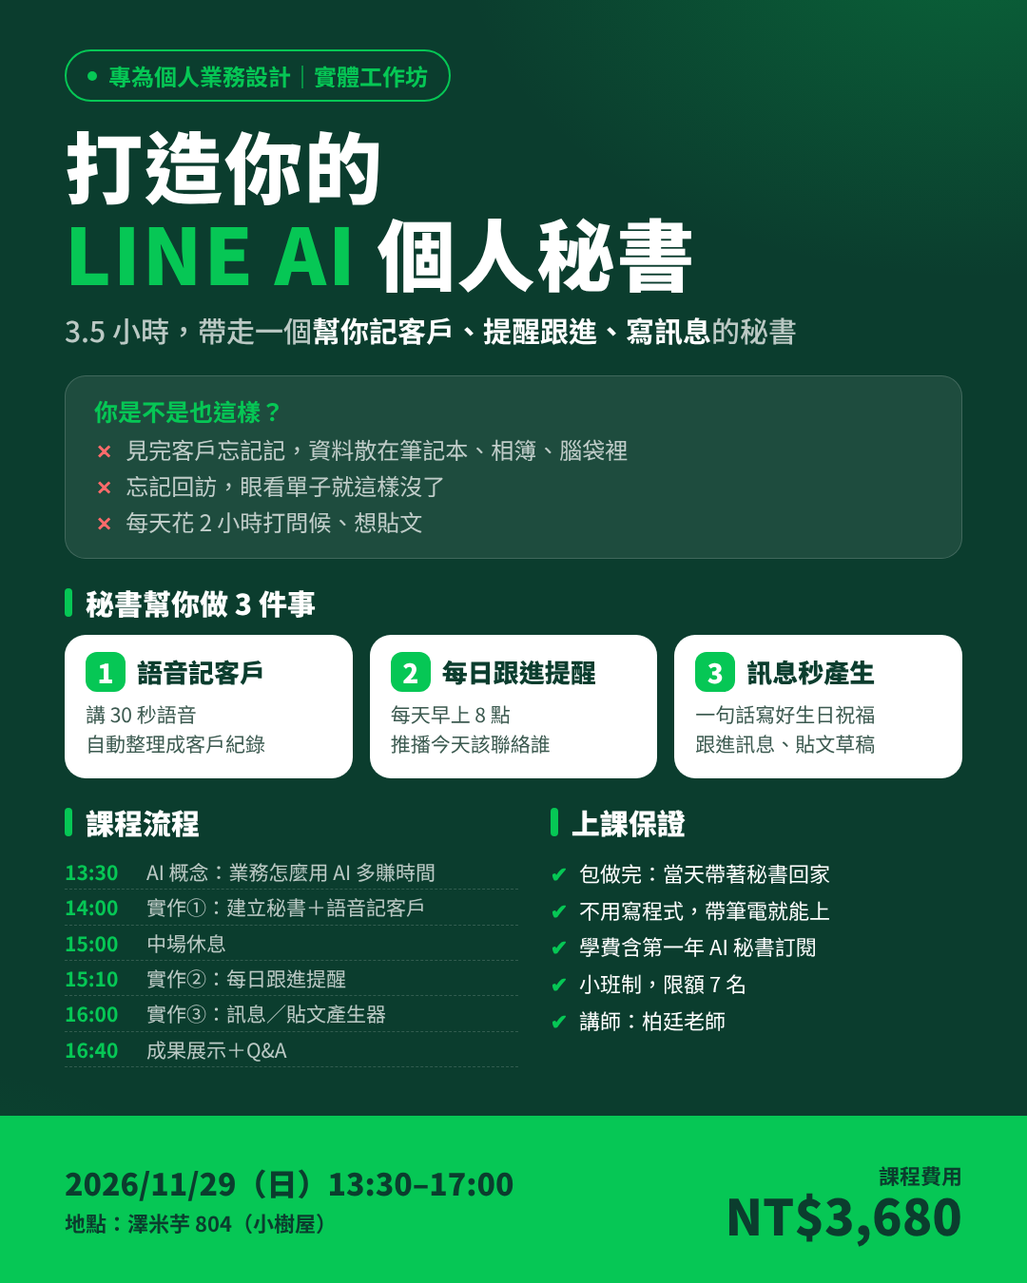
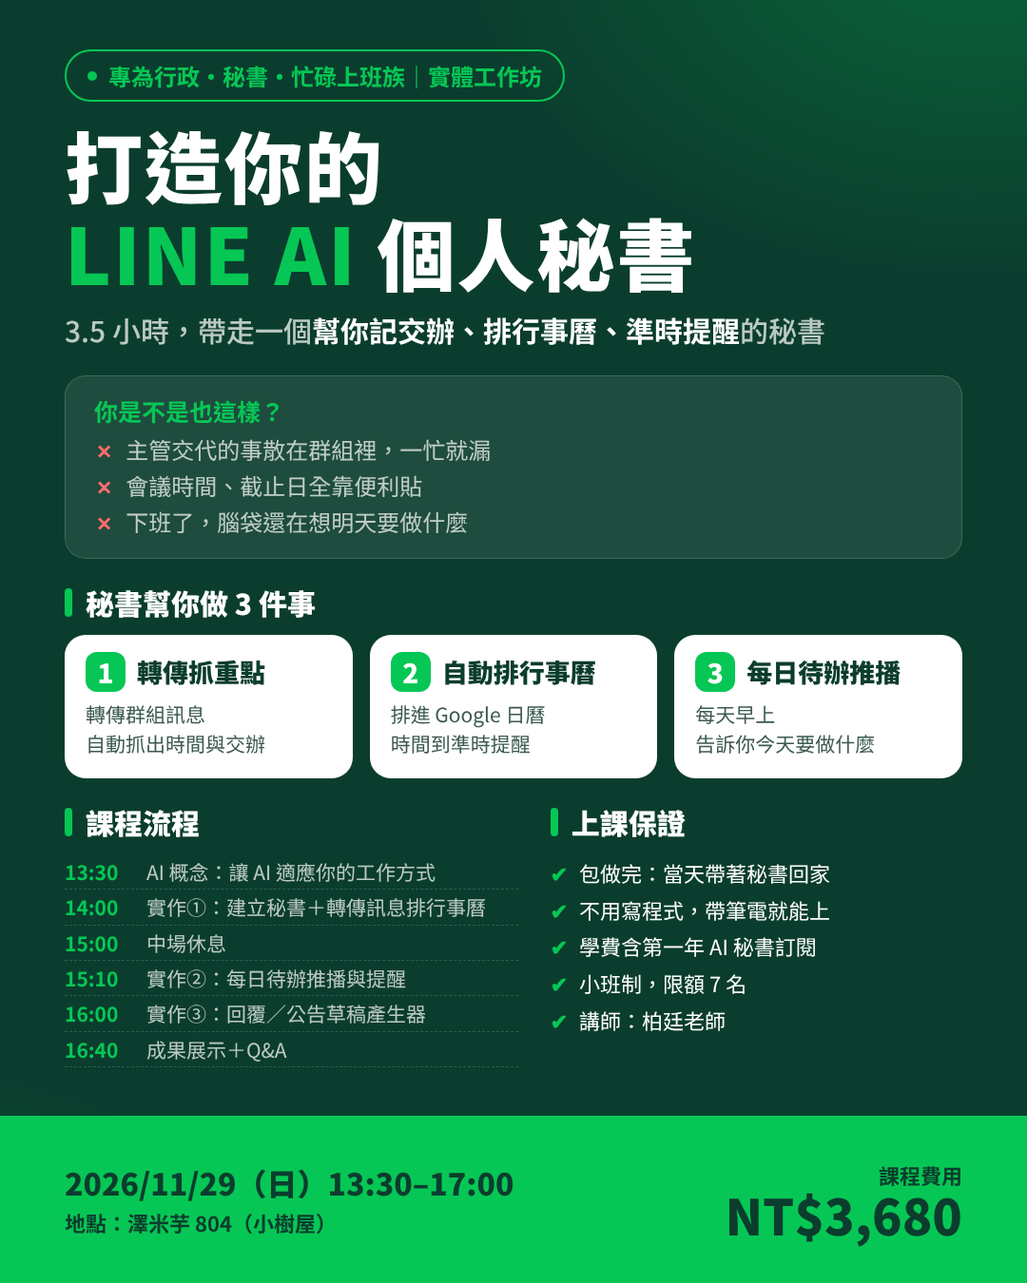
AI 秘書工作坊客群改為行政、秘書與忙碌上班族 (#104)
* 新增 AI 個人秘書工作坊 IG DM（11/22 課程）

Claude-Session: https://claude.ai/code/session_01SgizkCoUwjKyBL5st62JVY

* DM 課程費用改為 NT$3,680

Claude-Session: https://claude.ai/code/session_01SgizkCoUwjKyBL5st62JVY

* DM 改為 11/29 13:30-17:00、地點澤米芋804、移除早鳥

Claude-Session: https://claude.ai/code/session_01SgizkCoUwjKyBL5st62JVY

* DM 補上限額 7 名、講師柏廷老師，移除 QR code

Claude-Session: https://claude.ai/code/session_01SgizkCoUwjKyBL5st62JVY

* 新增 AI 個人秘書工作坊選位頁（偽 3D 房間＋8 種 Q 版動物，Supabase 先選先贏）

Claude-Session: https://claude.ai/code/session_01SgizkCoUwjKyBL5st62JVY

* 新增通用上線 workflow deploy-sites（暫時含本分支觸發以測試 DEPLOY_TOKEN）

Claude-Session: https://claude.ai/code/session_01SgizkCoUwjKyBL5st62JVY

* deploy-sites 改回只在合併到 main 時觸發

Claude-Session: https://claude.ai/code/session_01SgizkCoUwjKyBL5st62JVY

* 選位頁加入 Meta 像素（PageView＋選位成功 Lead），頁尾補隱私說明

Claude-Session: https://claude.ai/code/session_01SgizkCoUwjKyBL5st62JVY

* 網頁與 DM 標示學費含 NT$1,680 會員點數

Claude-Session: https://claude.ai/code/session_01SgizkCoUwjKyBL5st62JVY

* 新增 AI 秘書工作坊 Meta 廣告影片交接文件（腳本、拍攝清單、剪輯規格）

Claude-Session: https://claude.ai/code/session_01SgizkCoUwjKyBL5st62JVY

* 改為訂閱制：每月 NT$370、學費含第一年訂閱，網頁新增方案區與麥當勞主題，DM 與廣告腳本同步

Claude-Session: https://claude.ai/code/session_01SgizkCoUwjKyBL5st62JVY

* 選位頁「秘書幫你做 3 件事」改為「AI 秘書能幫你做的事」8 項功能

Claude-Session: https://claude.ai/code/session_01SgizkCoUwjKyBL5st62JVY

* 客群改為行政、秘書與忙碌上班族：報名頁、DM、廣告交接文件改寫（損失厭惡文案、工作群組示範）

Claude-Session: https://claude.ai/code/session_01SgizkCoUwjKyBL5st62JVY

---------

diff --git a/aisec-seat/index.html b/aisec-seat/index.html
@@ -139,9 +139,9 @@ fbq('track','PageView');
 </head>
 <body>
 <header class="aisec-wrap aisec-hero">
-  <span class="aisec-tag">專為個人業務設計｜實體小班工作坊</span>
+  <span class="aisec-tag">專為行政、秘書與忙碌上班族設計｜實體小班工作坊</span>
   <h1>打造你的<br><em>LINE AI</em> 個人秘書</h1>
-  <p class="aisec-sub">3.5 小時，帶走一個幫你記客戶、提醒跟進、寫訊息的秘書。不用寫程式，帶筆電就能上。</p>
+  <p class="aisec-sub">3.5 小時，帶走一個幫你記交辦、排行事曆、準時提醒的秘書。不用寫程式，帶筆電就能上。</p>
   <dl class="aisec-ticket">
     <div><dt>日期</dt><dd>11/29（日）13:30–17:00</dd></div>
     <div><dt>地點</dt><dd>澤米芋 804（小樹屋）</dd></div>
@@ -149,20 +149,21 @@ fbq('track','PageView');
     <div><dt>剩餘名額</dt><dd class="aisec-leftbox aisec-num"><span class="aisec-left">–</span> / 7</dd></div>
   </dl>
   <p class="aisec-points"><b>學費已含第一年 AI 秘書訂閱</b>：不用申請 AI 帳號，下課後在 LINE 上直接用。</p>
+  <p class="aisec-points">提醒：公司規定不能外傳的機密內容，請不要轉傳給秘書。</p>
   <a class="aisec-cta" href="#aisec_pick">選我的座位 →</a>
 </header>
 
 <section class="aisec-wrap aisec-sec">
   <h2>AI 秘書能幫你做的事</h2>
   <div class="aisec-three">
-    <div><b>轉傳就抓重點</b><p>轉傳客戶對話，自動抓出時間、邀約、要辦的事。</p></div>
+    <div><b>轉傳就抓重點</b><p>轉傳群組訊息，自動抓出時間、會議、交辦事項。</p></div>
     <div><b>自動排行事曆</b><p>直接排進 Google 日曆和手機行事曆。</p></div>
-    <div><b>時間到就提醒</b><p>提醒時附上「上次聊到什麼」，見面不卡詞。</p></div>
+    <div><b>時間到就提醒</b><p>提醒時附上當初的訊息重點，不用再翻群組。</p></div>
     <div><b>每日帳務整理</b><p>講一句話，自動記好收支。</p></div>
-    <div><b>早上告訴你聯絡誰</b><p>每天早上推播今天該聯絡的客戶。</p></div>
-    <div><b>訊息秒產生</b><p>一句話寫好生日祝福、跟進訊息。</p></div>
-    <div><b>貼文草稿</b><p>一句話產生社群貼文草稿。</p></div>
-    <div><b>語音記客戶</b><p>講 30 秒語音，自動整理成客戶紀錄。</p></div>
+    <div><b>早上推播今日待辦</b><p>每天早上告訴你今天有哪些事要做。</p></div>
+    <div><b>訊息秒產生</b><p>一句話寫好回覆、通知、會議提醒。</p></div>
+    <div><b>公告草稿</b><p>一句話產生公告、通知草稿。</p></div>
+    <div><b>語音記待辦</b><p>講 30 秒語音，自動整理成待辦清單。</p></div>
   </div>
 </section>
 
@@ -180,11 +181,11 @@ fbq('track','PageView');
 <section class="aisec-wrap aisec-sec">
   <h2>當天流程</h2>
   <ol class="aisec-flow">
-    <li><time>13:30</time>AI 概念：業務怎麼用 AI 多賺時間</li>
-    <li><time>14:00</time>實作 1：建立秘書＋語音記客戶</li>
+    <li><time>13:30</time>AI 概念：讓 AI 適應你的工作方式</li>
+    <li><time>14:00</time>實作 1：建立秘書＋轉傳訊息排行事曆</li>
     <li><time>15:00</time>中場休息</li>
-    <li><time>15:10</time>實作 2：每日跟進提醒</li>
-    <li><time>16:00</time>實作 3：訊息／貼文產生器</li>
+    <li><time>15:10</time>實作 2：每日待辦推播與提醒</li>
+    <li><time>16:00</time>實作 3：回覆／公告草稿產生器</li>
     <li><time>16:40</time>成果展示＋Q&amp;A</li>
   </ol>
 </section>

diff --git a/dm-ai-secretary/aisec_dm.html b/dm-ai-secretary/aisec_dm.html
@@ -59,33 +59,33 @@ body{background:#222;font-family:"Noto Sans TC","WenQuanYi Zen Hei",sans-serif}
 </head>
 <body>
 <div class="aisec-dm" id="aisec_dm">
-  <div class="aisec-chip"><i></i>專為個人業務設計｜實體工作坊</div>
+  <div class="aisec-chip"><i></i>專為行政・秘書・忙碌上班族｜實體工作坊</div>
   <h1 class="aisec-title">打造你的<br><em>LINE AI</em> 個人秘書</h1>
-  <p class="aisec-sub">3.5 小時，帶走一個<b>幫你記客戶、提醒跟進、寫訊息</b>的秘書</p>
+  <p class="aisec-sub">3.5 小時，帶走一個<b>幫你記交辦、排行事曆、準時提醒</b>的秘書</p>
 
   <div class="aisec-pain">
     <h3>你是不是也這樣？</h3>
-    <p><span>✗</span>見完客戶忘記記，資料散在筆記本、相簿、腦袋裡</p>
-    <p><span>✗</span>忘記回訪，眼看單子就這樣沒了</p>
-    <p><span>✗</span>每天花 2 小時打問候、想貼文</p>
+    <p><span>✗</span>主管交代的事散在群組裡，一忙就漏</p>
+    <p><span>✗</span>會議時間、截止日全靠便利貼</p>
+    <p><span>✗</span>下班了，腦袋還在想明天要做什麼</p>
   </div>
 
   <div class="aisec-h">秘書幫你做 3 件事</div>
   <div class="aisec-cards">
-    <div class="aisec-card"><h4><div class="n">1</div>語音記客戶</h4><p>講 30 秒語音<br>自動整理成客戶紀錄</p></div>
-    <div class="aisec-card"><h4><div class="n">2</div>每日跟進提醒</h4><p>每天早上 8 點<br>推播今天該聯絡誰</p></div>
-    <div class="aisec-card"><h4><div class="n">3</div>訊息秒產生</h4><p>一句話寫好生日祝福<br>跟進訊息、貼文草稿</p></div>
+    <div class="aisec-card"><h4><div class="n">1</div>轉傳抓重點</h4><p>轉傳群組訊息<br>自動抓出時間與交辦</p></div>
+    <div class="aisec-card"><h4><div class="n">2</div>自動排行事曆</h4><p>排進 Google 日曆<br>時間到準時提醒</p></div>
+    <div class="aisec-card"><h4><div class="n">3</div>每日待辦推播</h4><p>每天早上<br>告訴你今天要做什麼</p></div>
   </div>
 
   <div class="aisec-bottom">
     <div>
       <div class="aisec-h">課程流程</div>
       <ul class="aisec-tl">
-        <li><b>13:30</b><span>AI 概念：業務怎麼用 AI 多賺時間</span></li>
-        <li><b>14:00</b><span>實作①：建立秘書＋語音記客戶</span></li>
+        <li><b>13:30</b><span>AI 概念：讓 AI 適應你的工作方式</span></li>
+        <li><b>14:00</b><span>實作①：建立秘書＋轉傳訊息排行事曆</span></li>
         <li><b>15:00</b><span>中場休息</span></li>
-        <li><b>15:10</b><span>實作②：每日跟進提醒</span></li>
-        <li><b>16:00</b><span>實作③：訊息／貼文產生器</span></li>
+        <li><b>15:10</b><span>實作②：每日待辦推播與提醒</span></li>
+        <li><b>16:00</b><span>實作③：回覆／公告草稿產生器</span></li>
         <li><b>16:40</b><span>成果展示＋Q&amp;A</span></li>
       </ul>
     </div>

diff --git a/docs/aisec-ads/README.md b/docs/aisec-ads/README.md
@@ -1,7 +1,7 @@
 # AI 個人秘書工作坊：Meta 廣告影片交接文件
 
 > 給「剪輯 session」用。拍攝者照第三章拍，剪輯者照第四、五章剪。
-> 腳本依 `.claude/skills/reels-script/MODEL.md`（v2.5）規則設計。
+> 腳本依 `.claude/skills/reels-script/MODEL.md`（v2.5）規則設計；文案採**損失厭惡**框架。
 
 ---
 
@@ -18,23 +18,30 @@
 | 理念句 | 「AI 時代的第一步，不是學更多工具去適應 AI，而是練習讓 AI 適應你的工作方式」 |
 | 名額 | 7 位 |
 | 講師 | 柏廷老師（本人出鏡） |
-| 客群 | 個人業務（保險、房仲、汽車、直銷） |
+| 客群 | **行政、秘書，以及被工作瑣事追著跑的上班族** |
 | 報名頁 | https://ptgaminglife.github.io/aisec-seat/ （已裝 Meta 像素） |
-| 主軸 | **不怕忘記顧客說的話** |
-| 秘書實際流程 | 在 LINE 把客戶訊息「**轉傳**」給秘書 → 秘書挑出時間／邀約／事項 → 自動建立 Google 日曆＋手機行事曆＋秘書提醒（三者連動） |
+| 主軸 | **交辦散在群組裡，漏一件就被問** |
+| 秘書實際流程 | 在 LINE 把群組訊息「**轉傳**」給秘書 → 秘書挑出時間／會議／交辦事項 → 自動建立 Google 日曆＋手機行事曆＋秘書提醒（三者連動） |
 
-**廣告審核雷區**：不寫收入保證（「多賺一份薪水」）、不點出個人狀況（「你業績很差嗎」）；示範畫面必須是真實操作。
+**廣告審核雷區**
+- 不點出個人狀況或心理狀態：❌「你很焦慮嗎」「你是不是常被主管罵」。改用情境描述，讓人自己對號入座。
+- 不寫收入保證、不寫沒有出處的統計數字。
+- 示範畫面必須是真實操作；「剩 X 位」必須是真實名額。
+
+**機密提醒**：很多公司禁止把公司訊息交給外部 AI。示範只用假資料；報名頁已加註「公司規定不能外傳的機密內容，請不要轉傳給秘書」。
+
+**廣告定向（廣告組合 A）**：台北、新北、桃園，25～50 歲；興趣：行政助理、秘書、辦公室管理、人力資源、會計；開啟 Advantage+ 受眾擴展。
 
 ---
 
 ## 二、影片清單
 
-| # | 名稱 | 長度 | 用途 | 投放 |
-|---|---|---|---|---|
-| V1 | 不怕忘記顧客說的話（主力） | 約 25 秒 | 開發新客 | 11/12 起，廣告組合 A |
-| V2 | 提醒連上次聊什麼都記得 | 約 12 秒 | 開發新客（循環短版） | 11/12 起，廣告組合 A |
-| V3 | 只剩 X 個位子 | 約 12 秒 | 再行銷＋倒數 | 11/18 起，廣告組合 B |
-| V4 | 為什麼只收 7 人（講師口播） | 約 25 秒 | 再行銷、建立信任 | 11/18 起，廣告組合 B |
+| # | 名稱 | 長度 | 用途 | 文案 | 投放 |
+|---|---|---|---|---|---|
+| V1 | 主管交代的事，你記得幾件？（主力） | 約 25 秒 | 開發新客 | 版本 A | 廣告組合 A |
+| V2 | 下班了腦袋還在跑 | 約 12 秒 | 開發新客（循環短版） | 版本 B | 廣告組合 A |
+| V3 | 只剩 X 個位子 | 約 12 秒 | 再行銷＋倒數 | 版本 C | 廣告組合 B |
+| V4 | 為什麼只收 7 人（講師口播） | 約 25 秒 | 再行銷、建立信任 | 版本 C | 廣告組合 B |
 
 ---
 
@@ -42,77 +49,64 @@
 
 ### 共通規格
 - 9:16 直式、1080×1920、30fps；手機螢幕錄影也用直式。
-- 螢幕錄影前開**勿擾模式**；示範客戶一律**假名、假電話**。
+- 螢幕錄影前開**勿擾模式**；示範群組與人名一律**假資料**。
 - 實拍：窗邊自然光、手機架穩、收音靠近嘴（領夾麥最好）。
 
-### 先準備：示範對話（客戶「王先生」）
-用另一支手機／帳號扮演王先生，**分 3–4 天**傳，至少 15 則，閒聊越多越好：
+### 先準備：示範工作群組「行政部」
+建一個 LINE 群組，用 2–3 個帳號扮演「林經理（主管）」「小美（同事）」「王先生（廠商）」，**分 3–4 天**傳，至少 20 則，閒聊和貼圖越多越好：
 
 ```
-（11/10）王：最近在想小孩教育金的事
-（11/10）你：可以啊，找時間幫你算看看
-（11/10）王：好啊，最近忙到爆，月底結帳
-（11/11）王：下週三下午 3 點可以嗎？在公司附近星巴克
-（11/11）你：沒問題
-（11/12）王：對了 12/5 是我太太生日，想順便看看她的保單
-（11/12）王：我那張壽險 3 月到期，要記得提醒我
-（11/12）王：哈哈我自己一定會忘
-（11/13）王：週三我會帶我太太一起去
-……再加 6–8 則日常閒聊（天氣、球賽、小孩）
+（11/10）林經理：大家辛苦了，這週事情比較多
+（11/10）小美：收到～
+（11/11）林經理：週四下午 2 點部門會議，記得準備上月報表
+（11/11）小美：樓下咖啡買一送一喔
+（11/12）王先生：樣品週三寄到，請幫忙簽收
+（11/12）林經理：月底前大家的報帳單交給我
+（11/12）小美：（貼圖）
+（11/13）林經理：下週一的客戶來訪，會議室幫我先訂
+……再加 8–10 則閒聊（午餐、天氣、貼圖），讓重點被淹沒
 ```
 
 ### 素材檔名（交給剪輯時照這個命名）
 | 檔名 | 類型 | 內容 | 用在 |
 |---|---|---|---|
-| `s01_chat_scroll.mp4` | 螢幕錄影 | 王先生對話**由下往上快速滑**到頂，再慢慢滑回來（錄 15 秒） | V1 開頭、結尾循環 |
-| `s02_chat_still.mp4` | 螢幕錄影 | 停在含三句重點的畫面不動 5 秒（「下週三下午 3 點」「12/5 太太生日」「3 月到期」都要在同一屏） | V1 3–8 秒 |
+| `s01_chat_scroll.mp4` | 螢幕錄影 | 「行政部」群組**由下往上快速滑**到頂，再慢慢滑回來（錄 15 秒） | V1 開頭、結尾循環 |
+| `s02_chat_still.mp4` | 螢幕錄影 | 停在含三句重點的畫面 5 秒（「週四下午 2 點部門會議」「樣品週三寄到」「月底前交報帳單」同一屏） | V1 3–8 秒 |
 | `s03_forward.mp4` | 螢幕錄影 | 長按訊息 → 多選 → 轉傳 → 選秘書 → 送出（完整、不要剪） | V1 8–12 秒 |
-| `s04_secretary_reply.mp4` | 螢幕錄影 | 秘書回覆整理好的清單（等它回完再停） | V1 12–15 秒 |
-| `s05_gcal.mp4` | 螢幕錄影 | 打開 Google 日曆，看到新建立的 3 個事件，點開其中一個 | V1 15–17 秒 |
-| `s06_lock_notify.mp4` | 螢幕錄影或實拍 | 鎖定畫面跳出提醒「明天 15:00 王先生｜上次提到：小孩教育金」 | V1 17–20 秒、V2 |
+| `s04_secretary_reply.mp4` | 螢幕錄影 | 秘書回覆整理好的待辦清單（等它回完再停） | V1 12–15 秒 |
+| `s05_gcal.mp4` | 螢幕錄影 | 打開 Google 日曆，看到新建立的事件，點開其中一個 | V1 15–17 秒 |
+| `s06_lock_notify.mp4` | 螢幕錄影或實拍 | 鎖定畫面跳出提醒「明天 14:00 部門會議｜記得帶上月報表」 | V1 17–20 秒、V2 |
 | `s07_face_cta.mp4` | 實拍口播 | 正面半身，講 V1 結尾 CTA（多錄 3 次） | V1 20–23 秒 |
 | `s08_seat_page.mp4` | 螢幕錄影 | 打開報名頁 → 捲到 3D 房間 → 點空位 → 選動物（**不要真的送出**） | V1 結尾、V3 |
-| `s09_bed_phone.mp4` | 實拍 | 床頭手機特寫，畫面亮起跳出提醒（可把提醒時間設在拍攝前 1 分鐘） | V2 開頭 |
+| `s09_night_desk.mp4` | 實拍 | 晚上在家，手機螢幕亮起秘書推播「明天的待辦：3 件」 | V2 開頭 |
 | `s10_face_why7.mp4` | 實拍口播 | V4 全段口播（多錄 2 次） | V4 |
 
 ---
 
 ## 四、腳本
 
-### V1｜不怕忘記顧客說的話（Hook 採 A 版）
+### V1｜主管交代的事，你記得幾件？
 
-**選題定位**：賭完播＋點擊。共鳴痛點（記不住）→ 立刻秀成果（自動變行事曆）。
+**選題定位**：賭完播＋點擊。損失厭惡（漏一件就被問）→ 立刻秀成果（自動變行事曆）。
 
 | 秒數 | 素材 | 旁白（柏廷老師） | 字卡（上方大字） | 註解層（黃色小字） |
 |---|---|---|---|---|
-| 0–3 | s01 快速上滑 | 「客戶跟你說過的話，你記得幾句？」 | **客戶說的話 你記得幾句？** | — |
-| 3–8 | s02，三句依序亮黃色螢光筆 | 「時間、邀約、要辦的事，全混在聊天裡。」 | （無，讓黃色標記說話） | `*時間` `*邀約` `*事項`（跟著各自那句出現） |
+| 0–3 | s01 快速上滑 | 「主管在群組交代的事，你記得幾件？」 | **漏一件 就被問** | — |
+| 3–8 | s02，三句依序亮黃色螢光筆 | 「會議、截止日、要簽收的東西，全淹在聊天裡。」 | （無，讓黃色標記說話） | `*會議` `*截止日` `*交辦`（跟著各自那句出現） |
 | 8–12 | s03 轉傳 | 「我直接轉傳給 AI 秘書。」 | 進度條 ①整理 ●○○ | `*轉傳就好` |
 | 12–15 | s04 秘書回覆 | 「它自己挑出重點——」 | ①整理 ●●○ | — |
 | 15–17 | s05 Google 日曆 | 「排進行事曆。」 | ②行事曆 ●●○ | `*Google 日曆＋手機同步` |
-| 17–20 | s06 鎖定畫面提醒 | 「時間到，連上次聊什麼都提醒你。」 | ③提醒 ●●● | — |
-| 20–23 | s07 正面口播 | 「一個月兩個麥當勞套餐的錢，就有 AI 幫你工作。11/29 下午，我帶你做一個一樣的。」 | **兩個麥當勞套餐的錢** | `*不用申請 AI 帳號` |
+| 17–20 | s06 鎖定畫面提醒 | 「時間到，連要帶什麼都提醒你。」 | ③提醒 ●●● | — |
+| 20–23 | s07 正面口播 | 「一個月兩個麥當勞套餐的錢，就有 AI 幫你記。11/29 下午，我帶你做一個一樣的。」 | **兩個麥當勞套餐的錢** | `*不用申請 AI 帳號` |
 | 23–25 | s08 點位子、動物跳出 | （無） | **限 7 位｜點下方選座位** | — |
 | 25 | 接 s01 第一幀 | — | — | （循環） |
 
-**廣告文案（主要文字）**
-```
-客戶跟你說過的話，你記得幾句？
-轉傳給 LINE AI 秘書，時間、邀約、要辦的事自動排進行事曆，時間到還會提醒你上次聊了什麼。
-📅 11/29（日）13:30–17:00｜台北中山站實體小班
-🍔 每月只要兩個麥當勞套餐的錢（NT$370），不用申請 AI 帳號
-💡 工作坊學費已含第一年訂閱，下課就能用
-👥 限 7 位，先選先贏
-```
-- 標題：`用兩個麥當勞套餐的錢，讓 AI 幫你工作`（備選：`做一個不會忘記客戶的 LINE AI 秘書`）
-- 按鈕：`瞭解詳情` → 報名頁
-
-### V2｜提醒連上次聊什麼都記得（約 12 秒，循環）
+### V2｜下班了腦袋還在跑（約 12 秒，循環）
 
 | 秒數 | 素材 | 旁白 | 字卡 |
 |---|---|---|---|
-| 0–3 | s09 床頭手機亮起 | （無，提示音） | **秘書在提醒我** |
-| 3–8 | s06 提醒放大 | 「它不只提醒你約了誰，還記得上次聊了什麼。」 | `*上次提到：小孩教育金` |
+| 0–3 | s09 晚上手機亮起 | 「下班了，腦袋還在想明天要做什麼？」 | **下班了 腦袋還在跑** |
+| 3–8 | s06 提醒放大 | 「把『要記得』交給 AI 秘書，時間到它會提醒你。」 | `*你負責做 它負責記` |
 | 8–12 | s07 片段＋s08 | 「11/29，帶走你的秘書。」 | **限 7 位｜含第一年訂閱** |
 
 最後一幀接回 s09 第一幀。
@@ -131,13 +125,65 @@
 
 s10 全段口播，jump cut 剪掉所有停頓。口播稿：
 ```
-（0–3）AI 時代的第一步，不是學更多工具去適應 AI，而是讓 AI 適應你的工作方式。
-（3–6）所以我的 AI 秘書課，一場只收 7 個人。
-（3–10）因為我要保證每個人當天都做完、帶回家就能用，人一多我就顧不到。
-（10–18）你會帶走一個 LINE 秘書：轉傳客戶訊息，它自動排行事曆、時間到提醒你。
-（18–25）學費已含第一年訂閱，不用申請 AI 帳號，下課就能用。11/29 下午，中山站，點下方選位。
+（0–4）AI 時代的第一步，不是學更多工具去適應 AI，而是讓 AI 適應你的工作方式。
+（4–7）所以我的 AI 秘書課，一場只收 7 個人。
+（7–12）因為我要保證每個人當天都做完、帶回家就能用，人一多我就顧不到。
+（12–19）你會帶走一個 LINE 秘書：群組訊息轉傳給它，自動排行事曆、時間到提醒你。
+（19–25）學費已含第一年訂閱，不用申請 AI 帳號，下課就能用。11/29 下午，中山站，點下方選位。
 ```
 註解層：`*讓 AI 適應你`、`*一場只收 7 人`、`*當天做完帶走`、`*含第一年訂閱`。
+
+---
+
+## 四之二、廣告文案（損失厭惡）
+
+### 版本 A（搭配 V1）
+```
+主管在 LINE 交代的事、同事順口提的會議、廠商說的截止日……
+漏掉任何一件，被問的都是你。
+
+這些事散在幾十個群組、幾百則訊息裡，靠記憶和便利貼，遲早會漏。
+
+把訊息轉傳給 LINE AI 秘書，它會自動抓出時間和待辦，排進行事曆，時間到提醒你。
+
+🍔 每月只要兩個麥當勞套餐的錢
+📅 11/29（日）13:30–17:00｜台北中山站實體小班
+💡 學費含第一年訂閱，不用申請 AI 帳號，下課就能用
+👥 只收 7 位
+```
+- 標題：`別再因為漏掉一件事，被問「不是交代過了嗎」`
+- 說明：`轉傳訊息，AI 自動排行事曆、準時提醒`
+
+### 版本 B（搭配 V2）
+```
+下班了，腦袋還在跑：明天幾點開會？那份資料誰要的？報帳截止是哪天？
+
+真正累人的不是工作量，是要一直「記得」。
+
+讓 LINE AI 秘書替你記：轉傳訊息就整理好待辦，每天早上告訴你今天要做什麼，時間到再提醒。
+
+🍔 每月兩個麥當勞套餐的錢，換回你的下班時間
+📅 11/29（日）台北中山站，3.5 小時做完帶回家
+💡 學費含第一年訂閱，下課就能用
+```
+- 標題：`把「要記得」交給 AI，下班就真的下班`
+- 說明：`不用申請 AI 帳號，LINE 上直接用`
+
+### 版本 C（搭配 V3、V4，再行銷）
+```
+你已經看過選位頁了，位子還在，但不會一直在。
+
+11/29 這場只收 7 位，目前剩 X 位。
+錯過這一場，明年的你還是會在群組裡往上滑，找「那件事到底是誰交代的」。
+
+報名的人，下課就帶走一個會幫他記待辦、排行事曆、準時提醒的 LINE AI 秘書。
+
+👉 點下方，選你的位子和代表動物
+```
+- 標題：`剩 X 位｜11/29 帶走你的 AI 秘書`
+- 說明：`學費 NT$3,680 已含第一年訂閱`
+
+**按鈕**：一律 `瞭解詳情` → 報名頁。版本 A、B 同時投 3 天，點閱率高的那版拿較多預算。
 
 ---
 
@@ -151,6 +197,6 @@ s10 全段口播，jump cut 剪掉所有停頓。口播稿：
 - **進度條**：V1 畫面底部 3 節點 `整理 ─ 行事曆 ─ 提醒`，依序點亮（第 20 條）。
 - **黃色螢光筆**：V1 3–8 秒在三句訊息上依序刷黃，每句間隔約 1.5 秒。
 - **音樂**：輕快背景音樂，音量低於旁白 15 dB 以上；關聲音也要看得懂。
-- **輸出**：`V1_forget.mp4`、`V2_remind.mp4`、`V3_seats_X.mp4`、`V4_why7.mp4`；H.264、1080×1920、30fps。
+- **輸出**：`V1_tasks.mp4`、`V2_offwork.mp4`、`V3_seats_X.mp4`、`V4_why7.mp4`；H.264、1080×1920、30fps。
 - **工具**：`scripts/ae.py`（見 `scripts/autoedit/MODEL.md`）。⚠ ae.py 預設不裁切；V4 需要 jump cut，剪輯 session 自行處理靜音段。
 - **檢查**：輸出後截關鍵幀確認字卡沒有被 IG 介面（上方、下方、右側按鈕區）蓋住。
